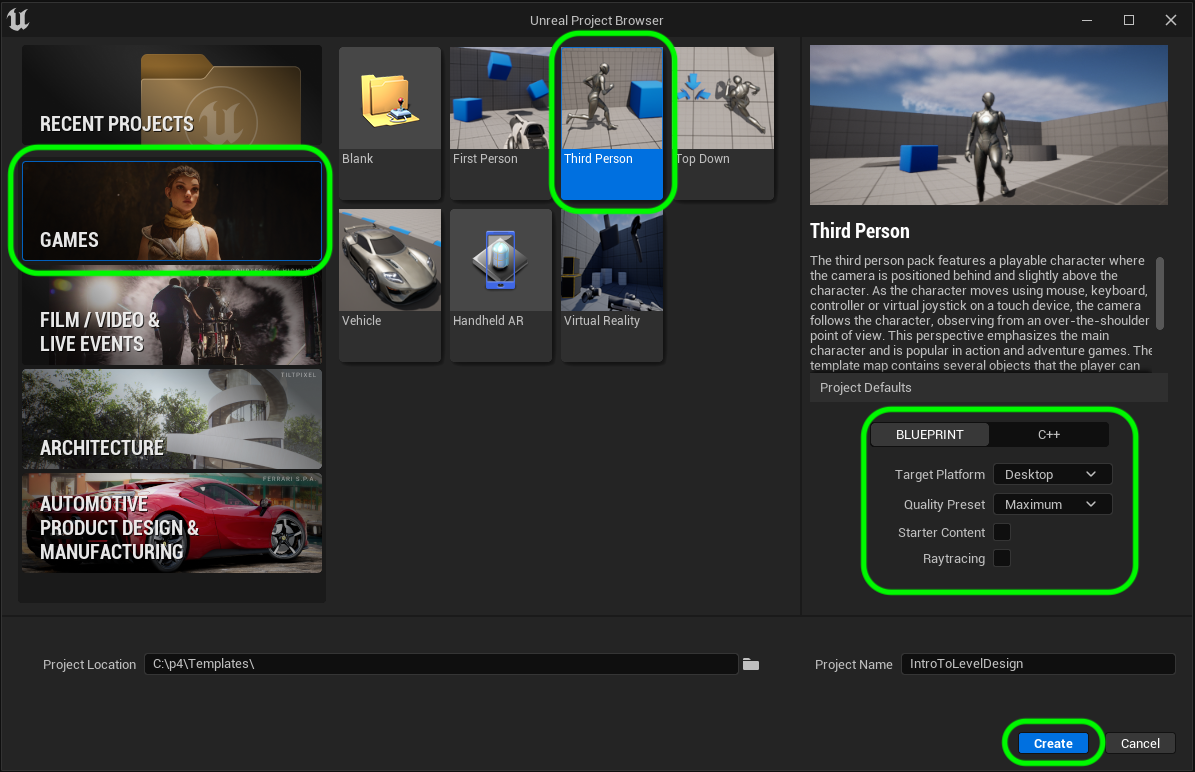
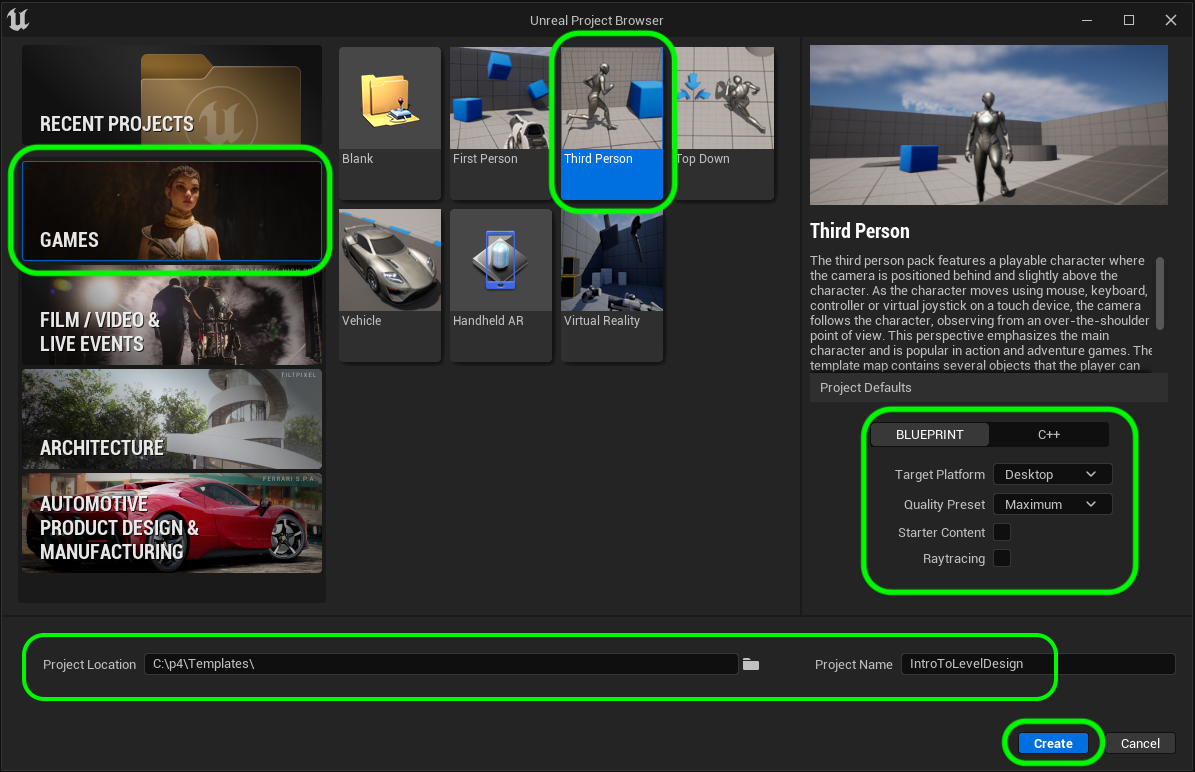
ue5 level design  update

Changed region(s): [[0.031, 0.8083, 0.8979, 0.9016], [0.031, 0.9016, 0.8669, 0.9326], [0.0, 0.8394, 0.031, 0.9016]]

diff --git a/setting-up/README.md b/setting-up/README.md
@@ -32,7 +32,13 @@ Run the **Epic Games Launcher** and Press **Launch** button to launch the editor
 
 ##### `Step 3.`\|`UE5LD`|:small_blue_diamond: :small_blue_diamond: :small_blue_diamond:
 
-You can pick from different starting templates with Games, Film/TV, Architecture and Design as options.  Lets start by selecting **Games** and then press the <kbd>Next</kbd> button.
+You can pick from different starting templates with Games, Film/Video & Live Events, Architecture and Automotive Product Design & Manufacturing as options.  
+
+We are going to make a game so lets start by selecting **Games** and then select the **Third Person Template**.  
+
+The first settings on the top right is set to **BLUEPRINT**.  You can select between **C++** and **BLUEPRINT**.  Since we will not be doing any C++ programming in this exercise we will leave it with Blueprint.  I am leaving the **Target Platform** as **Desktop** and the **Quality Preset** to **Maximum Quality** as we are developing this for a modern computer.  We do not need the starter content so we will set the **Starter Content** to `false` to keep our project size at bay. We will leave **Raytracing** off as we will not be using it at the moment.  
+
+Select your **Perforce** workspace as the folder to save the project in and call it `IntroToLevelDesign`.  Press the <kbd>Create</kbd> button to start the game with the third person template.
 
 ![Unreal Select or Create New Project screen](images/image_03.png)
 
@@ -40,7 +46,6 @@ You can pick from different starting templates with Games, Film/TV, Architecture
 
 ##### `Step 4.`\|`UE5LD`|:small_blue_diamond: :small_blue_diamond: :small_blue_diamond: :small_blue_diamond:
 
-**Unreal** has various boiler point template for different genres of games.  WThe sidescroller template would be interesting but it is for 2 dimensional movement and we want a fully navigatable 3-D level. For now lets just start with a **Third Person** template then press the <kbd>Next</kbd> button.
 
 ![select third person ue4 template](images/image_17.png)
 
@@ -48,7 +53,7 @@ You can pick from different starting templates with Games, Film/TV, Architecture
 
 ##### `Step 5.`\|`UE5LD`| :small_orange_diamond:
 
-This now takes you to the *Project Settings* screen. The first settings on the top left is set to Blueprints.  You can select between C++ and Blueprint.  Since we will not be doing any C++ programming in this exercise we will leave it with Blueprint.  I am leaving the quality settings to **Maximum Quality** as we are developing this for a modern computer.  We will leave **Raytracing** off as we will not be using it at the moment.  We set the paltform to **Desktop** as we will be on a PC or Mac playing the game and not on a game console or on mobile.  We will be importing the needed content so we will set the **Starter Content** to `No Starter Content` to keep our project size at bay.
+
 
 Select a folder to put it in (I suggest `Documents/github/` and then assign a project name and I am calling it `IntroLevelDesign`.  Press the <kbd>Create Project</kbd> button to start the new project.
 
